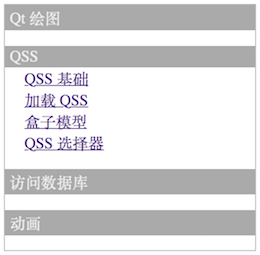
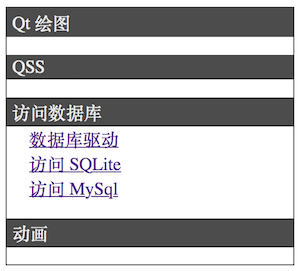
change background of slide box

diff --git a/source/_posts/fe-slide-box.md b/source/_posts/fe-slide-box.md
@@ -35,13 +35,13 @@ $(document).ready(function() {
     <style>
     #slide-box {
         width: 256px;
-        border: 1px solid #BBB;
+        border: 1px solid rgba(0,0,0,0.7);
     }
 
     #slide-box ul > a {
         display: block;
         color: #EEE;
-        background: #AAA;
+        background: rgba(0,0,0,0.7);
         text-decoration: none;
         padding: 2px 5px;
     }
